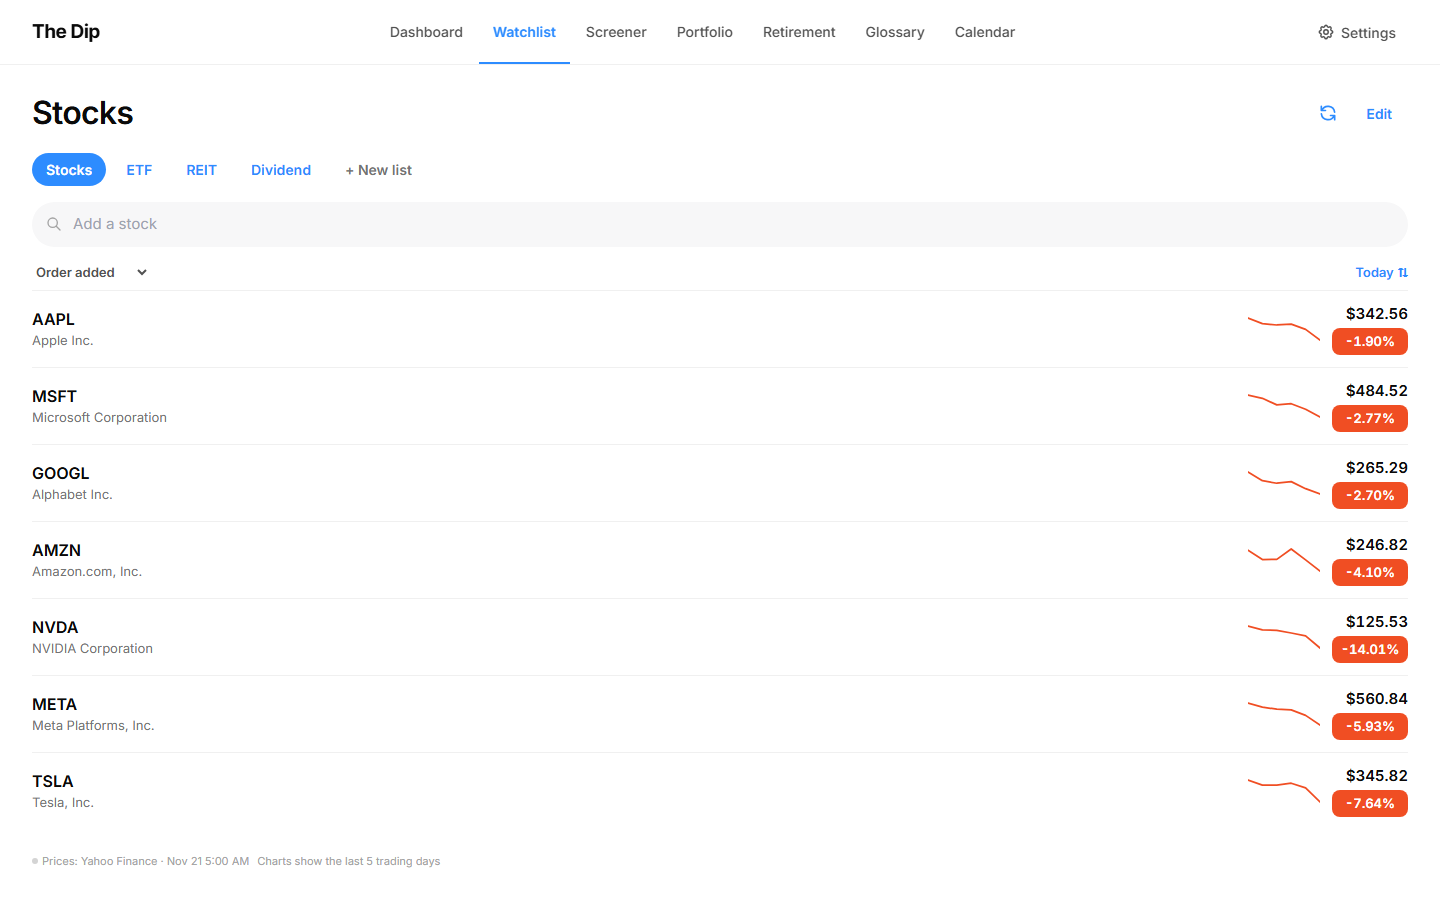
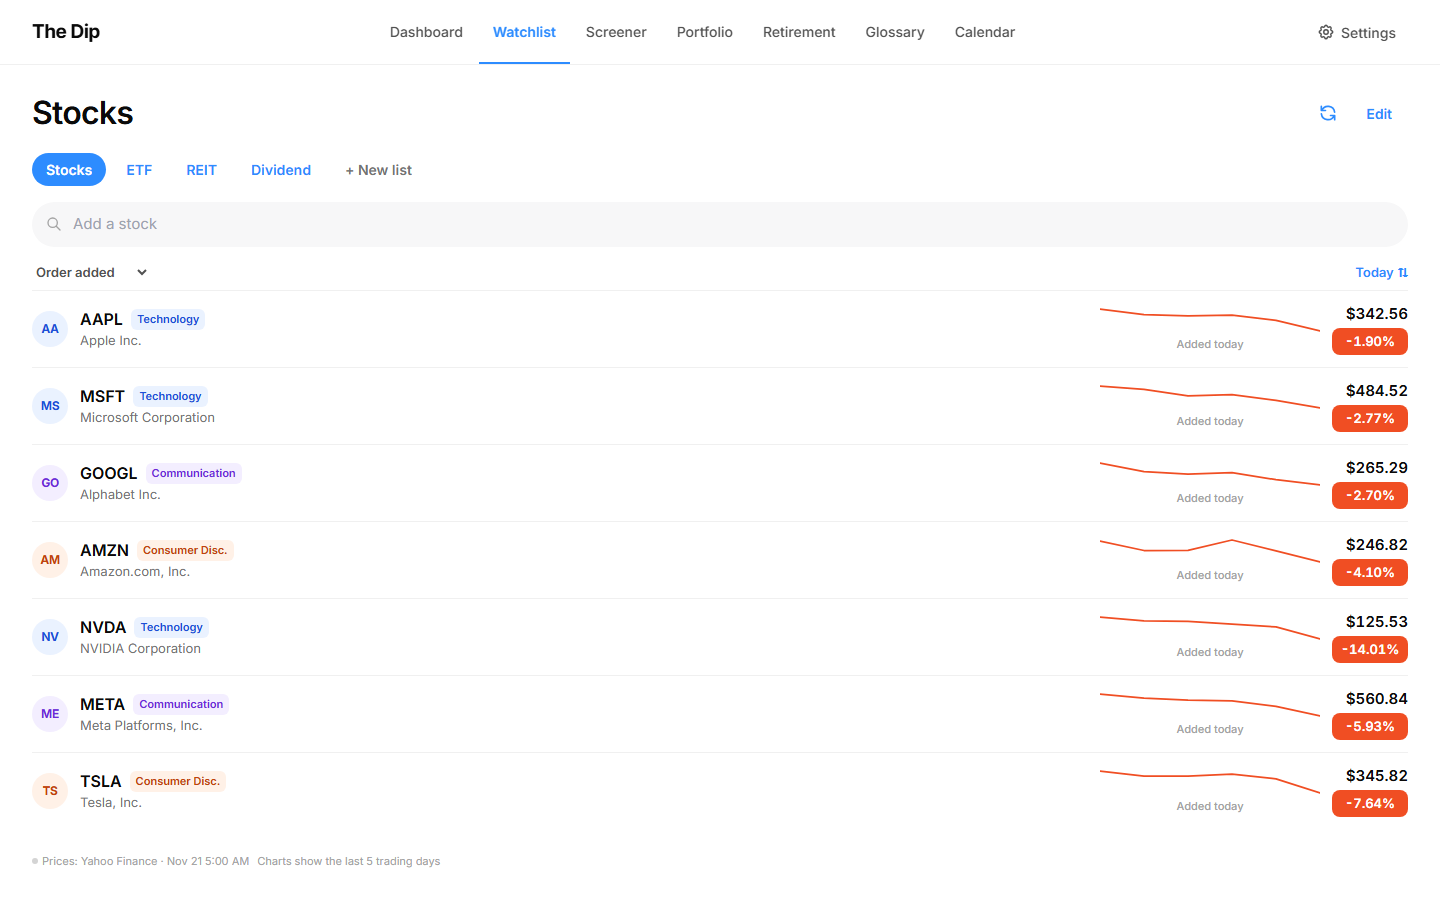
feat(watchlist): sector badges, tags and a dated move under each price line
The rows were plain on wide screens. Each now has:

- a round badge with the ticker's first two letters, coloured by sector
  (categoryColor in lib/categories.ts; green and red are left out since
  they mean up and down, and ungrouped stocks are grey);
- a sector tag in the same colour beside the ticker (tablet and up);
- a price line that widens with the screen (72, 140 or 220px);
- under it, whichever move the pill isn't showing: "+37.02% since
  Mar 3" (or "Added today"), or today's move when the pill shows the
  change since added.

Edit mode shows the badge too. No new data is fetched. The watchlist
browser test checks the badge, tag and dated line; the README describes
the rows and the screenshot is retaken.

diff --git a/src/app/watchlist/page.tsx b/src/app/watchlist/page.tsx
@@ -8,7 +8,7 @@ import SourceTag from "@/components/SourceTag";
 import { Watchlist, WatchlistItem } from "@/lib/types";
 import { loadWatchlists, newId, newItem, saveWatchlists } from "@/lib/store";
 import { getChart, getFundamentals, getQuotes, QuoteMap } from "@/lib/data";
-import { categoryFrom, knownCategory } from "@/lib/categories";
+import { categoryColor, categoryFrom, knownCategory } from "@/lib/categories";
 import { closeOnOrBefore, rangeCovering } from "@/lib/portfolioHistory";
 import { formatPercent } from "@/lib/formatters";
 import { defaultCurrency, formatMoney } from "@/lib/markets";
@@ -32,17 +32,55 @@ const parseShow = (raw: string | null): Show => (raw === "since" ? "since" : "to
 // Moves that round to 0.00% read as flat, not as a red "-0.00%"
 const flat = (v: number) => Math.abs(v) < 0.005;
 
+// The price line widens with the screen: 72px on a phone, 140px on a tablet, 220px on a laptop
+const SPARK_SIZE = "w-[72px] sm:w-[140px] lg:w-[220px] h-7";
+
 function Sparkline({ closes }: { closes: number[] }) {
-  const w = 72, h = 28;
-  if (closes.length < 2) return <span className="inline-block" style={{ width: w, height: h }} />;
+  const w = 100, h = 28;
+  if (closes.length < 2) return <span className={`block ${SPARK_SIZE}`} />;
   const lo = Math.min(...closes), hi = Math.max(...closes);
   const pts = closes.map((c, i) => `${(i / (closes.length - 1)) * w},${hi === lo ? h / 2 : h - 3 - ((c - lo) / (hi - lo)) * (h - 6)}`).join(" ");
   const up = closes[closes.length - 1] >= closes[0];
   return (
-    <svg width={w} height={h} className="block" aria-hidden>
-      <polyline points={pts} fill="none" stroke={up ? "#00B341" : "#F04E23"} strokeWidth={1.75} strokeLinejoin="round" strokeLinecap="round" />
+    <svg viewBox={`0 0 ${w} ${h}`} preserveAspectRatio="none" className={`block ${SPARK_SIZE}`} aria-hidden>
+      <polyline points={pts} fill="none" stroke={up ? "#00B341" : "#F04E23"} strokeWidth={1.75} strokeLinejoin="round" strokeLinecap="round" vectorEffect="non-scaling-stroke" />
     </svg>
   );
+}
+
+/** "since Oct 11" (with the year if it isn't this one), or null if added today */
+function sinceDate(addedAt: string): string | null {
+  const d = new Date(addedAt);
+  const now = new Date();
+  if (d.toDateString() === now.toDateString()) return null;
+  return `since ${d.toLocaleDateString("en-US", { month: "short", day: "numeric", ...(d.getFullYear() !== now.getFullYear() ? { year: "numeric" } : {}) })}`;
+}
+
+/** Under the price line: whichever move the pill isn't showing */
+function OtherMove({ show, today, since, addedAt }: { show: Show; today: number | null; since: number | null; addedAt: string }) {
+  const label = show === "today" ? sinceDate(addedAt) : "today";
+  const v = show === "today" ? since : today;
+  if (label === null) return <span className="hidden sm:block text-[11px] font-medium text-[#A3A3A3]">Added today</span>;
+  if (v === null) return null;
+  const tone = flat(v) ? "text-[#737373]" : v > 0 ? "text-[#007A2B]" : "text-[#B8360F]";
+  return <span className={`hidden sm:block text-[11px] font-medium tabular-nums ${tone}`}>{flat(v) ? "0.00%" : formatPercent(v)} {label}</span>;
+}
+
+/** A round badge with the ticker's first two characters, coloured by sector */
+function Badge({ ticker, category }: { ticker: string; category?: string }) {
+  const c = categoryColor(category);
+  return (
+    <span className="w-9 h-9 shrink-0 rounded-full flex items-center justify-center text-[12px] font-bold tracking-tight" style={{ background: c.bg, color: c.fg }} aria-hidden>
+      {ticker.replace(/[^A-Z0-9]/gi, "").slice(0, 2)}
+    </span>
+  );
+}
+
+/** The stock's sector (or "ETFs") as a small tag in the same colour as its badge */
+function SectorTag({ category }: { category?: string }) {
+  if (!category) return null;
+  const c = categoryColor(category);
+  return <span className="hidden sm:inline-block shrink-0 text-[11px] font-semibold rounded-md px-1.5 py-0.5" style={{ background: c.bg, color: c.fg }}>{category}</span>;
 }
 
 /** The coloured change pill on the right of each row */
@@ -393,6 +431,7 @@ export default function WatchlistPage() {
             if (editing) {
               return (
                 <li key={r.item.ticker} className="flex items-start gap-3 py-3">
+                  <Badge ticker={r.item.ticker} category={r.item.category} />
                   <button
                     onClick={() => removeFromList(r.item.ticker)}
                     aria-label={`Remove ${r.item.ticker}`}
@@ -421,11 +460,18 @@ export default function WatchlistPage() {
             return (
               <li key={r.item.ticker}>
                 <Link href={`/stock/${encodeURIComponent(r.item.ticker)}`} className="flex items-center gap-3 py-3 hover:bg-[#FAFAFA] -mx-2 px-2 rounded-lg transition-colors">
+                  <Badge ticker={r.item.ticker} category={r.item.category} />
                   <div className="min-w-0 flex-1">
-                    <p className="text-[16px] font-semibold text-[#0A0A0A]">{r.item.ticker}</p>
+                    <p className="flex items-center gap-2 min-w-0">
+                      <span className="text-[16px] font-semibold text-[#0A0A0A]">{r.item.ticker}</span>
+                      <SectorTag category={r.item.category} />
+                    </p>
                     <p className="text-[13px] text-[#737373] truncate">{note || r.name || " "}</p>
                   </div>
-                  <Sparkline closes={r.spark} />
+                  <div className="shrink-0 flex flex-col items-center gap-0.5">
+                    <Sparkline closes={r.spark} />
+                    <OtherMove show={show} today={r.today} since={r.since} addedAt={r.item.addedAt} />
+                  </div>
                   <div className="text-right shrink-0">
                     <p className="text-[15px] font-semibold text-[#0A0A0A] tabular-nums mb-0.5">{formatMoney(r.price, r.currency)}</p>
                     <ChangePill v={value} />

diff --git a/e2e/layout.spec.ts b/e2e/layout.spec.ts
@@ -30,7 +30,14 @@ test("watchlist: the list fills the page, and a row opens the stock page", async
   const rows = page.locator("main ul li a");
   check("laptop: no panel beside the list", (await page.getByRole("complementary").count()) === 0);
   check("laptop: rows span the page", Math.round((await box(rows.first())).width) >= 1440 - 64, Math.round((await box(rows.first())).width));
-  const second = (await rows.nth(1).locator("p").first().innerText()).trim();
+  // Each row: a sector-coloured badge with the ticker's first letters, the ticker, and its sector tag
+  const first = rows.first();
+  const ticker = (await first.locator("p span").first().innerText()).trim();
+  const badge = (await first.locator("span[aria-hidden]").first().innerText()).trim();
+  check("laptop: rows start with a badge of the ticker's first letters", badge === ticker.replace(/[^A-Z0-9]/g, "").slice(0, 2), `${badge} for ${ticker}`);
+  check("laptop: rows show a sector tag", (await first.locator("p span").nth(1).innerText()).trim().length > 0);
+  check("laptop: rows say how long they've been watched", /Added today|since [A-Z][a-z]{2} \d+/.test(await first.innerText()));
+  const second = (await rows.nth(1).locator("p span").first().innerText()).trim();
   await rows.nth(1).click();
   await page.waitForURL(/\/stock\//);
   check("laptop: clicking a row opens the stock page", page.url().endsWith(`/stock/${second}`), page.url());

diff --git a/src/lib/categories.ts b/src/lib/categories.ts
@@ -8,6 +8,29 @@ export const CATEGORY_ORDER = [
   "Financials", "Energy", "Industrials", "Materials", "Real Estate", "Utilities", "Other",
 ];
 
+/**
+ * A colour per group, for the watchlist's badges and sector tags: a pale background with darker
+ * text of the same hue. Plain green and red are left out, since they mean up and down.
+ */
+const CATEGORY_COLORS: Record<string, { bg: string; fg: string }> = {
+  "ETFs": { bg: "#EEF2F6", fg: "#334155" },
+  "Technology": { bg: "#EAF2FF", fg: "#1D4ED8" },
+  "Communication": { bg: "#F3EEFF", fg: "#6D28D9" },
+  "Consumer Disc.": { bg: "#FFF1E7", fg: "#C2410C" },
+  "Consumer Staples": { bg: "#E6F7F5", fg: "#0F766E" },
+  "Healthcare": { bg: "#FDEEF6", fg: "#BE185D" },
+  "Financials": { bg: "#EEF0FF", fg: "#4338CA" },
+  "Energy": { bg: "#FEF9E7", fg: "#A16207" },
+  "Industrials": { bg: "#F4F1EE", fg: "#57534E" },
+  "Materials": { bg: "#E6F6FB", fg: "#0E7490" },
+  "Real Estate": { bg: "#FAEEFC", fg: "#A21CAF" },
+  "Utilities": { bg: "#E8F4FD", fg: "#0369A1" },
+};
+const NEUTRAL = { bg: "#F0F0F0", fg: "#525252" };
+
+/** Badge and tag colours for a group; grey for "Other" or a stock not grouped yet */
+export const categoryColor = (category: string | null | undefined) => (category && CATEGORY_COLORS[category]) || NEUTRAL;
+
 const FUND_TYPES = new Set(["ETF", "MUTUALFUND"]);
 
 /**

diff --git a/README.md b/README.md
@@ -20,7 +20,7 @@ Built with Next.js 16, React 19, TypeScript, Tailwind CSS and Recharts. No accou
 
 ![Screener](docs/screenshots/screener.png)
 
-**Watchlists.** Named lists (Stocks, ETF, REIT and Dividend to start) that you can add to, rename and delete. Searching for a stock shows a quick look first (price, 52-week range, market cap, P/E, dividend, analyst target and a business summary), so you can check it before adding it. Each row shows the ticker, your note or the company name, a 5-day price line, the price in the listing's own currency, and a pill with either today's move or the change since you added it. Lists sort by order added, A–Z or biggest movers, and the sort, the pill and the open list are remembered. **Edit** removes stocks, adds a note to each one, renames the list or deletes it. A stock added with **+ Watch** from the Screener or a stock page keeps a note and the strategy it was found under, and its stock page judges it by that strategy. Every row links to the stock's analyser page.
+**Watchlists.** Named lists (Stocks, ETF, REIT and Dividend to start) that you can add to, rename and delete. Searching for a stock shows a quick look first (price, 52-week range, market cap, P/E, dividend, analyst target and a business summary), so you can check it before adding it. Each row shows a badge and tag coloured by sector, the ticker, your note or the company name, a 5-day price line, the price in the listing's own currency, and a pill with either today's move or the change since you added it; the other figure sits under the price line, with the date the stock was added. Lists sort by order added, A–Z or biggest movers, and the sort, the pill and the open list are remembered. **Edit** removes stocks, adds a note to each one, renames the list or deletes it. A stock added with **+ Watch** from the Screener or a stock page keeps a note and the strategy it was found under, and its stock page judges it by that strategy. Every row links to the stock's analyser page.
 
 ![Watchlist](docs/screenshots/watchlist.png)
 
